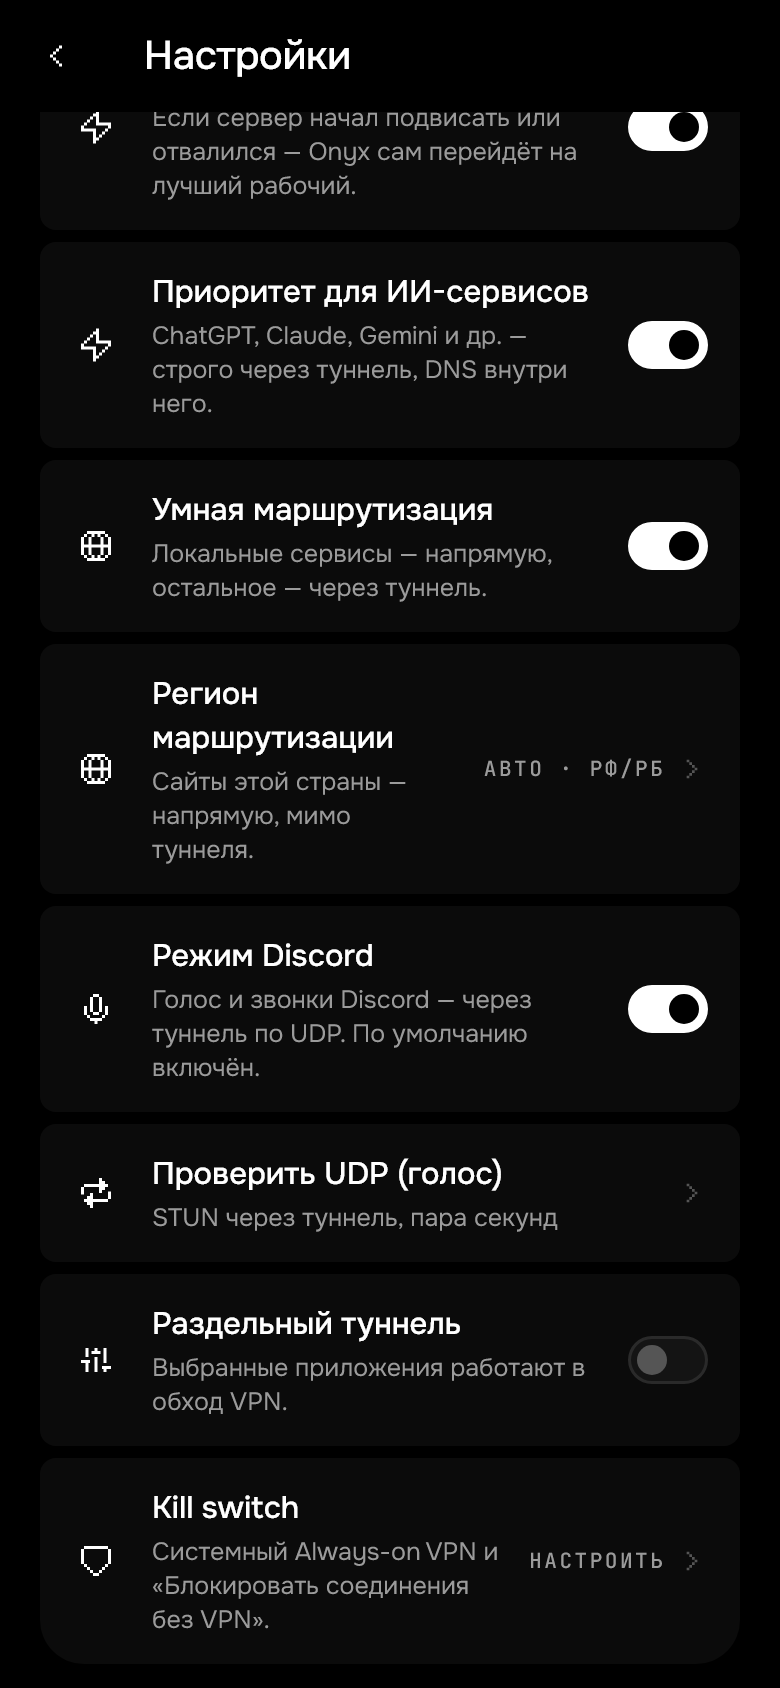
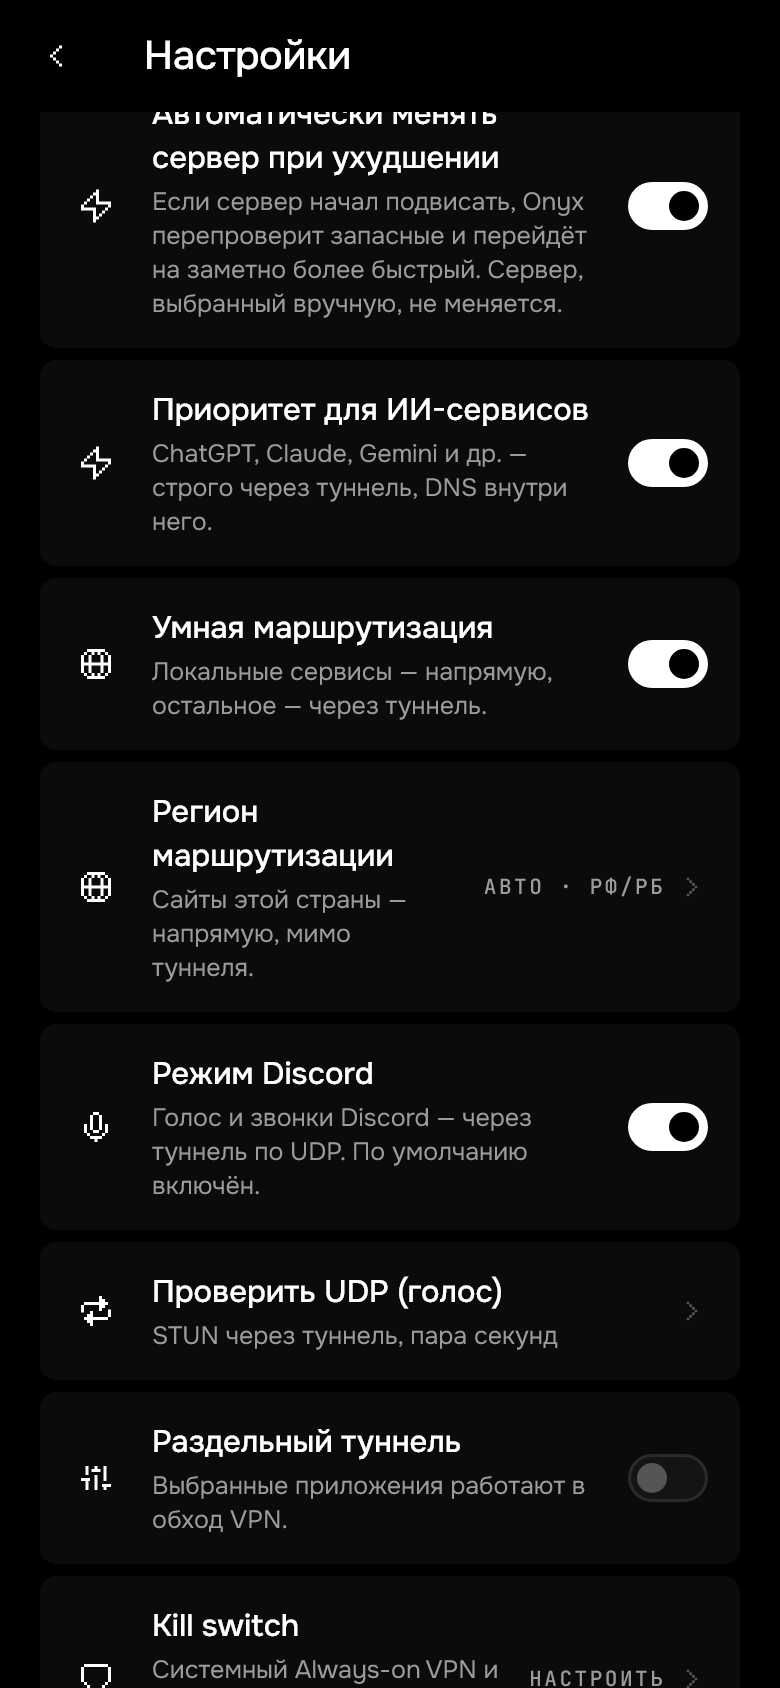
feat(ui): автопереключение — честная формулировка и статус (#60)
Логика «Оникс» (fix/60 @87a27a0, влит перемоткой): переход только на
заметно более быстрый, заранее перепроверенный сервер и никогда — с
выбранного вручную.
- Настройки: «Автоматически менять сервер при ухудшении» — «Если сервер
  начал подвисать, Onyx перепроверит запасные и перейдёт на заметно
  более быстрый. Сервер, выбранный вручную, не меняется.»
- Правая панель окна: статус по autoFailoverActiveProvider —
  «Автопереключение», «Ручной выбор» (тумблер включён, но сервер выбран
  вручную) или «Автопереключение выкл».
- golden настроек обновлены.

diff --git a/lib/presentation/screens/home_screen.dart b/lib/presentation/screens/home_screen.dart
@@ -401,7 +401,7 @@ class _SidePanel extends ConsumerWidget {
         section('Сервер', [
           ServerCard(node: node, sub: sub, locked: connected, onTap: onServers),
           const SizedBox(height: 12),
-          _StatusLine(node: node, autoFailover: settings.autoFailover),
+          _StatusLine(node: node, autoFailover: settings.autoFailover, active: ref.watch(autoFailoverActiveProvider)),
         ], trailing: _PanelLink(label: 'Сменить', onTap: onServers)),
         section('Скорость', [
           Row(children: [
@@ -461,9 +461,13 @@ class _PanelLink extends StatelessWidget {
 
 /// Мини-строка статуса: голос (UDP) и автопереключение — только чтение.
 class _StatusLine extends StatelessWidget {
-  const _StatusLine({required this.node, required this.autoFailover});
+  const _StatusLine({required this.node, required this.autoFailover, required this.active});
   final Node? node;
   final bool autoFailover;
+
+  /// Автопереключение действует: тумблер включён и сервер не выбран вручную
+  /// (с ручного выбора Onyx не уводит, #60).
+  final bool active;
 
   @override
   Widget build(BuildContext context) {
@@ -491,7 +495,10 @@ class _StatusLine extends StatelessWidget {
         );
     return Wrap(spacing: 6, runSpacing: 6, children: [
       pill(voice, voiceColor),
-      pill(autoFailover ? 'Автопереключение' : 'Автопереключение выкл', autoFailover ? good : t.textFaint),
+      pill(
+        active ? 'Автопереключение' : (autoFailover ? 'Ручной выбор' : 'Автопереключение выкл'),
+        active ? good : t.textFaint,
+      ),
     ]);
   }
 }

diff --git a/lib/presentation/screens/settings_screen.dart b/lib/presentation/screens/settings_screen.dart
@@ -75,8 +75,8 @@ class SettingsScreen extends ConsumerWidget {
               _Group(children: [
                 _SwitchTile(
                   glyph: OnyxGlyph.zap,
-                  title: 'Автопереключение серверов',
-                  subtitle: 'Если сервер начал подвисать или отвалился — Onyx сам перейдёт на лучший рабочий.',
+                  title: 'Автоматически менять сервер при ухудшении',
+                  subtitle: 'Если сервер начал подвисать, Onyx перепроверит запасные и перейдёт на заметно более быстрый. Сервер, выбранный вручную, не меняется.',
                   value: settings.autoFailover,
                   onChanged: n.toggleAutoFailover,
                 ),
